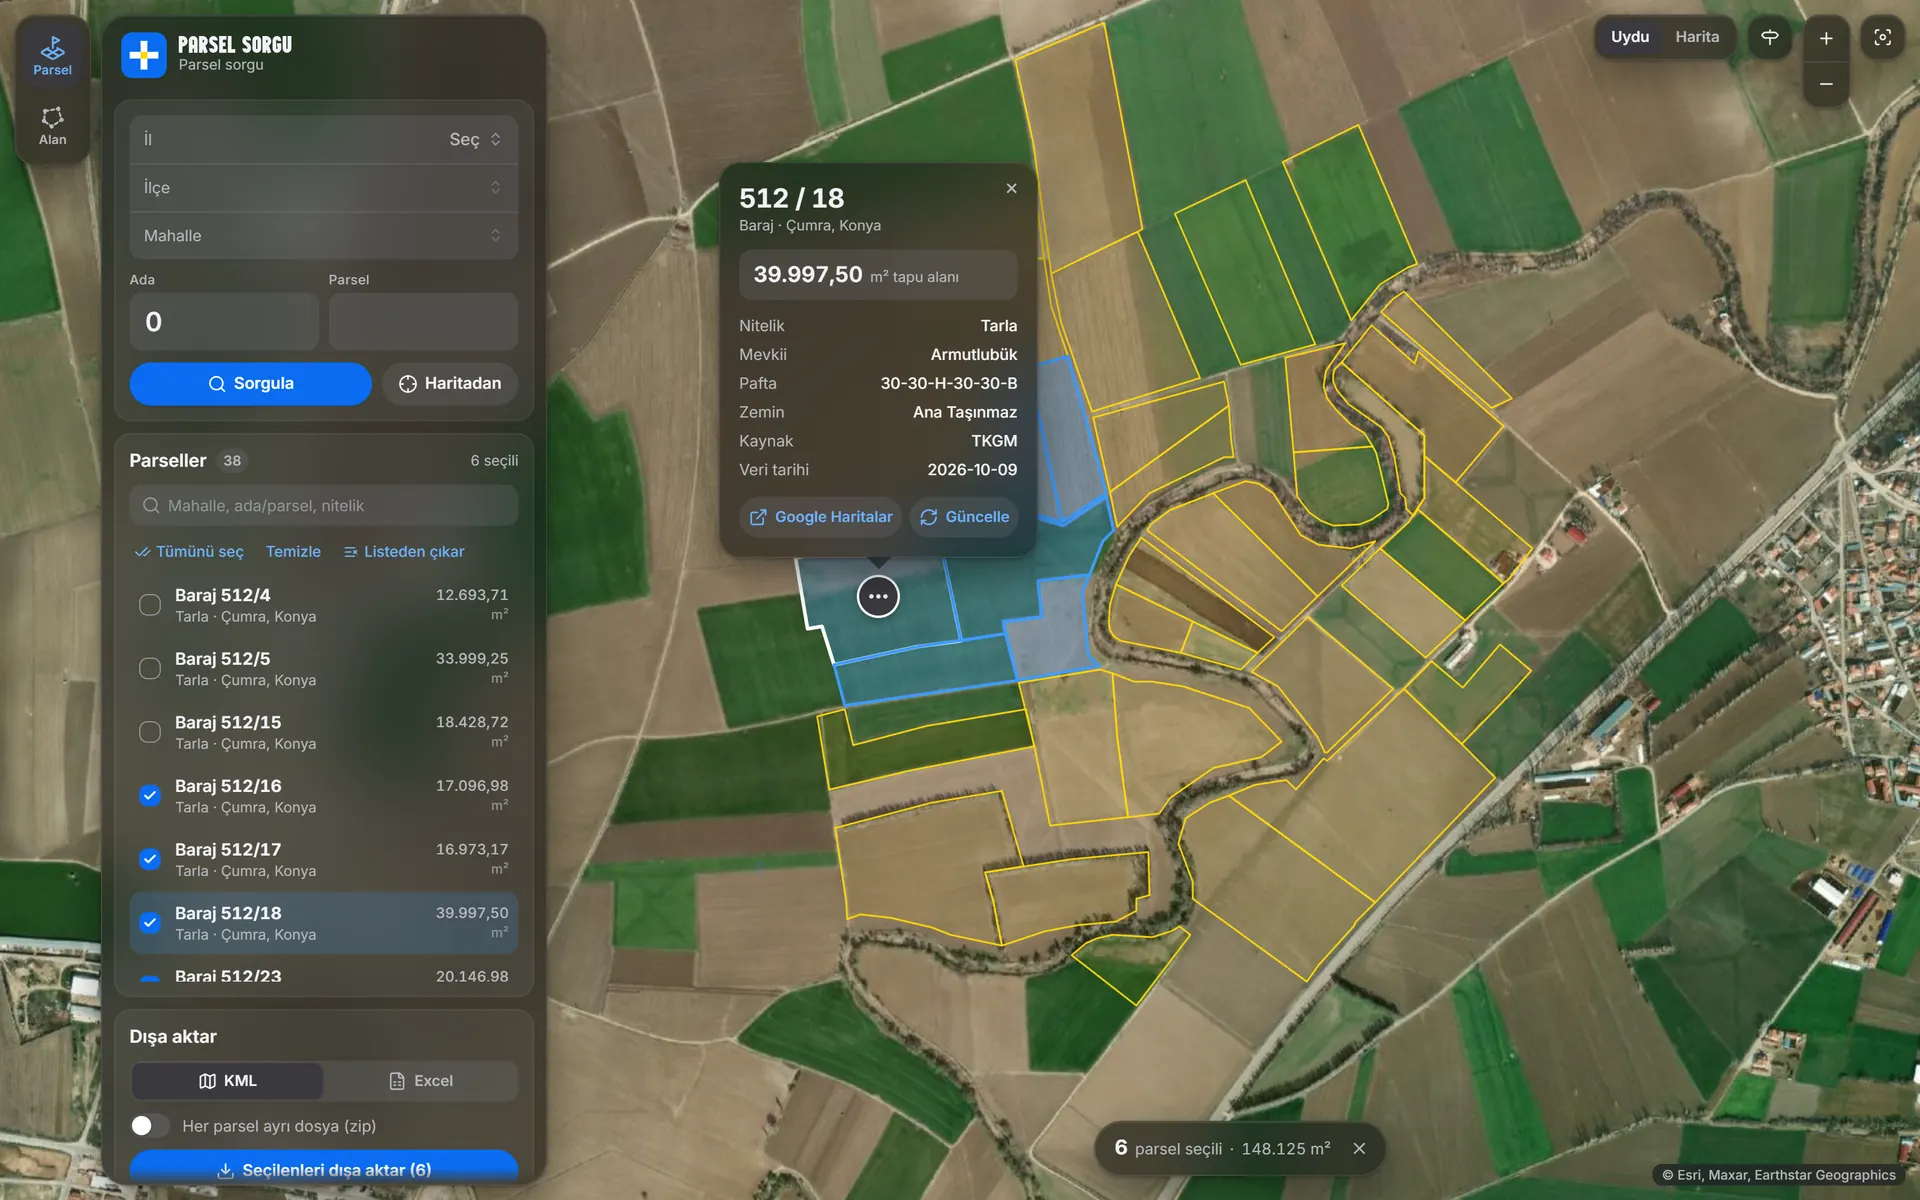
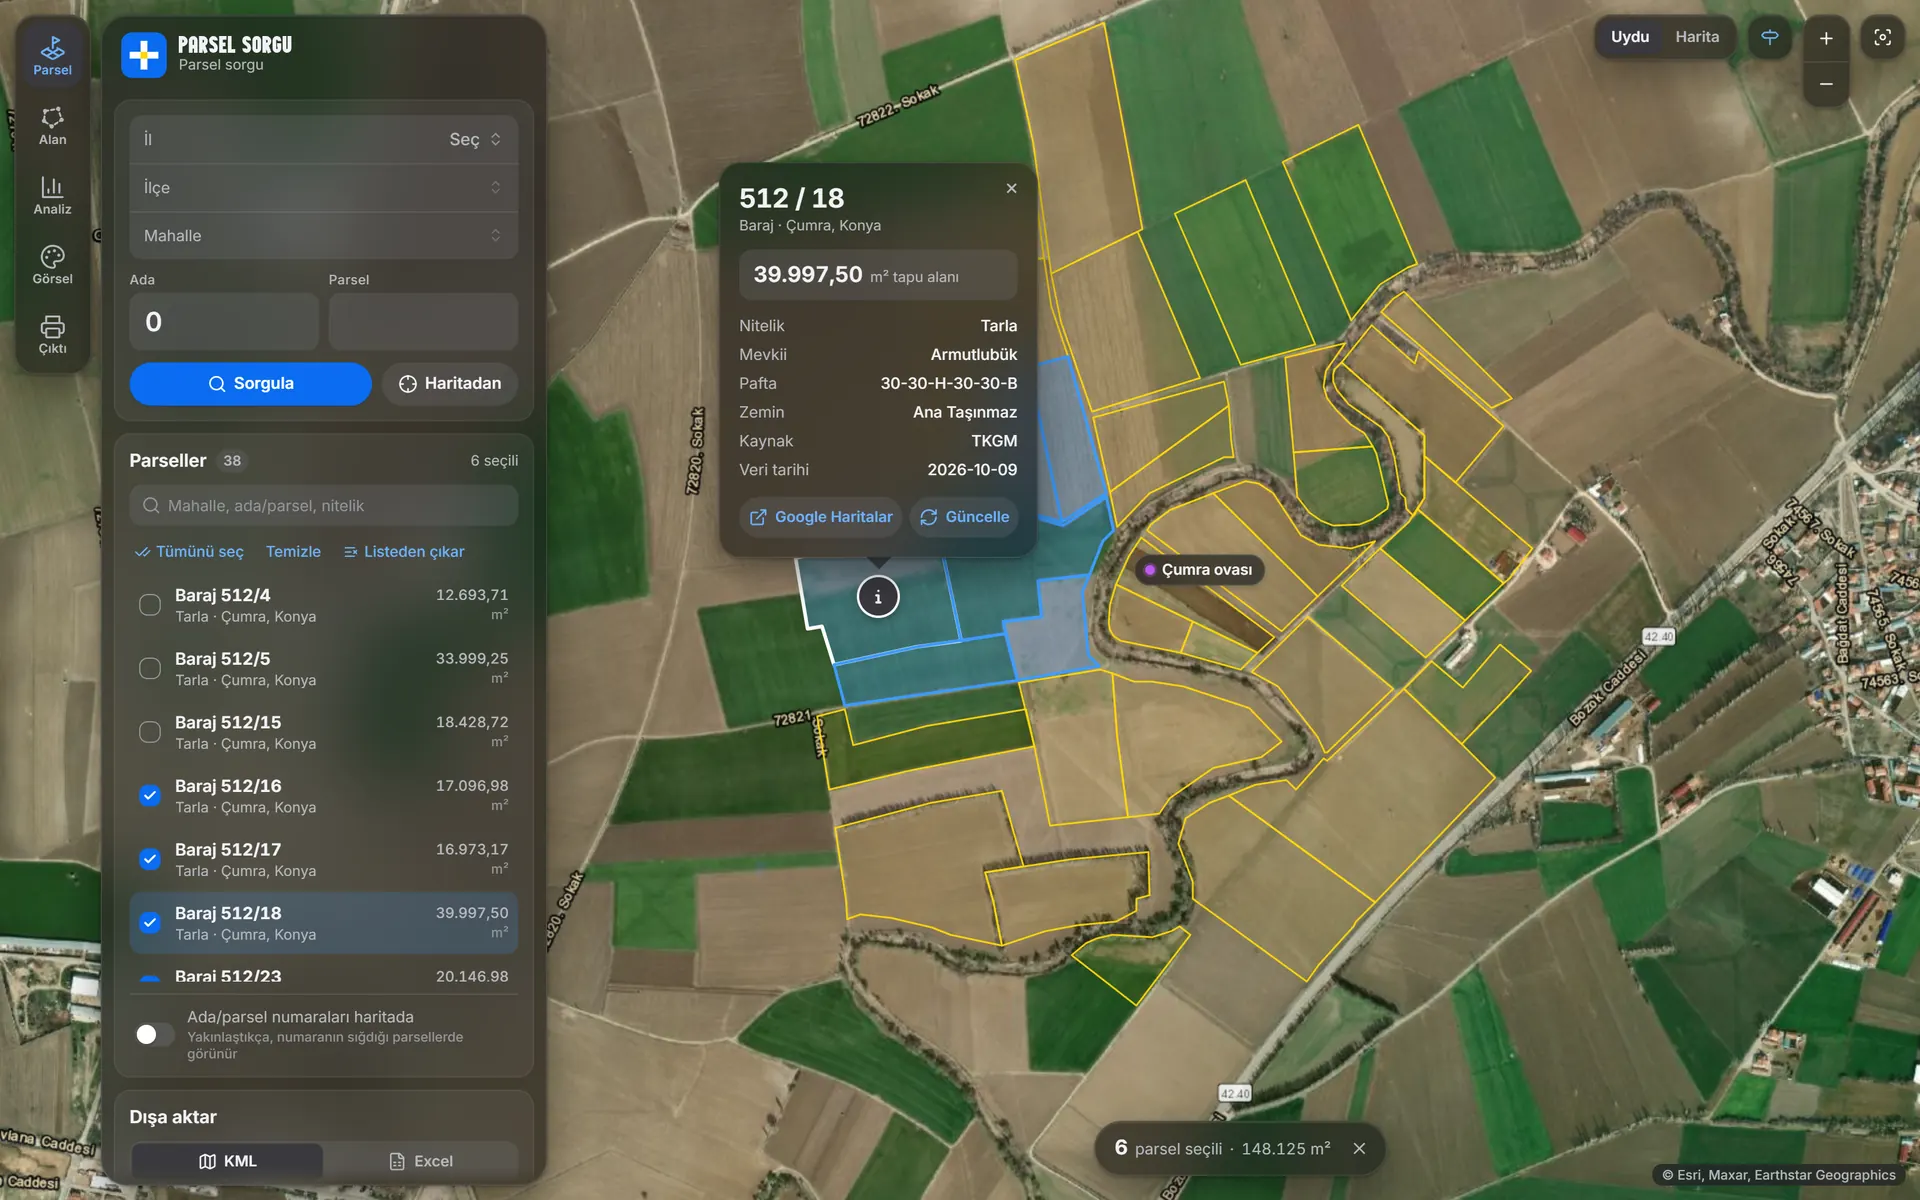
Site: v0.2.0 notu, yeni sürümden ekranlar, Görsel/Analiz/Çıktı bölümü
Sürüm notu yayına hazır (taslak kaldırıldı). Ekran görüntüleri yeni
sürümden (Çumra demo verisi) yeniden alındı; Görsel, Analiz ve Çıktı
ekranları şeride ve yeni bir bölüme eklendi. "Ada. Parsel. Sınır. Tek
ekranda." bölümü ve başlıklardaki 01/02/03 numaraları kaldırıldı.

diff --git a/site/index.html b/site/index.html
@@ -84,21 +84,14 @@
       <p class="rx-hero__kaynak">Uydu görüntüsü: <span lang="en">Esri, Maxar, Earthstar Geographics</span></p>
     </section>
 
-    <!-- STATEMENT: pinned, words brighten one after another -->
-    <section class="rx-statement" data-statement aria-label="Özet">
-      <p class="rx-statement__text">
-        <span>Ada.</span> <span>Parsel.</span> <span>Sınır.</span> <span class="rx-vurgu">Tek ekranda.</span>
-      </p>
-    </section>
-
-    <!-- SCENE 01: query -->
+    <!-- SCENE: query -->
     <section class="rx-scene" id="ozellikler" aria-labelledby="s1">
       <div class="rx-scene__media">
         <div class="rx-scene__cerceve"><img data-speed="6" src="assets/uygulama-parsel-1920.webp" srcset="assets/uygulama-parsel-1200.webp 1200w, assets/uygulama-parsel-1920.webp 1920w, assets/uygulama-parsel-3200.webp 3200w" sizes="(min-width: 768px) 60vw, 100vw" alt="Parsel Sorgu + ekranı: Çumra'da parseller haritada sarı sınırlarla, solda parsel listesi, üstte 512/18 parselinin bilgi kartı" loading="lazy" width="3200" height="2000"></div>
         <img class="rx-scene__kesit" data-speed="-10" src="assets/kesit-sorgu-748.webp" srcset="assets/kesit-sorgu-520.webp 520w, assets/kesit-sorgu-748.webp 748w" sizes="(min-width: 768px) 22vw, 50vw" alt="İl Konya, ilçe Çumra seçili; mahalle listesinde “gü” yazınca Güvercinlik Köyü bulunuyor" loading="lazy" width="748" height="708">
       </div>
       <div class="rx-scene__copy">
-        <p class="rx-eyebrow" data-reveal>01 · Sorgula</p>
+        <p class="rx-eyebrow" data-reveal>Sorgula</p>
         <h2 class="rx-h2" data-reveal>Yaz, seç, bul.</h2>
         <p data-reveal>İl, ilçe ve mahalleyi yazarak seç, ada ve parseli gir. Ya da haritada parsele tıkla. Tapu alanı, nitelik, mevkii ve pafta tek kartta.</p>
         <p data-reveal>Sorgulanan her parsel bilgisayarında saklanır: aynı parsel için <strong>TKGM'ye ikinci kez gidilmez</strong>, günlük limitin boşa gitmez.</p>
@@ -108,14 +101,14 @@
       </div>
     </section>
 
-    <!-- SCENE 02: area detection — pinned, counters fill with scroll -->
+    <!-- SCENE: area detection — pinned, counters fill with scroll -->
     <section class="rx-alan" aria-labelledby="s2" data-alan>
       <div class="rx-alan__ekran">
         <img src="assets/uygulama-alan-1920.webp" srcset="assets/uygulama-alan-1200.webp 1200w, assets/uygulama-alan-1920.webp 1920w, assets/uygulama-alan-3200.webp 3200w" sizes="100vw" alt="Alandan parsel tespiti: çizilen Çumra ovası alanı, içindeki ve kesişen parseller mavi, sorgulanmamış boşluklar kırmızı taralı" loading="lazy" width="3200" height="2000">
       </div>
       <div class="rx-alan__perde" aria-hidden="true"></div>
       <div class="rx-alan__icerik">
-        <p class="rx-eyebrow">02 · Alandan tespit</p>
+        <p class="rx-eyebrow">Alandan tespit</p>
         <h2 class="rx-h2" id="s2">Alanı çiz.<br>Parselleri<br><span class="rx-vurgu">o bulsun.</span></h2>
         <p class="rx-alan__metin">OSB ya da plan sınırını yükle (<span lang="en">KML, KMZ</span>, <span lang="en">Netcad</span> projesi) veya haritada pinlerle çiz. İçindekileri ve kesişenleri tek tıkla seç, boşlukları gör; sorgu bütçesiyle TKGM'den otomatik tara.</p>
         <dl class="rx-sayaclar">
@@ -127,14 +120,14 @@
       </div>
     </section>
 
-    <!-- SCENE 03: export -->
+    <!-- SCENE: export -->
     <section class="rx-scene rx-scene--flip" aria-labelledby="s3">
       <div class="rx-scene__media">
         <div class="rx-scene__cerceve"><img data-speed="6" src="assets/uygulama-disa-1920.webp" srcset="assets/uygulama-disa-1200.webp 1200w, assets/uygulama-disa-1920.webp 1920w, assets/uygulama-disa-3200.webp 3200w" sizes="(min-width: 768px) 60vw, 100vw" alt="Dışa aktarma: alanla kesişen 38 parsel, Excel biçimi, ED50 3° koordinat sistemi seçili" loading="lazy" width="3200" height="2000"></div>
         <img class="rx-scene__kesit" data-speed="-10" src="assets/kesit-disa-748.webp" srcset="assets/kesit-disa-520.webp 520w, assets/kesit-disa-748.webp 748w" sizes="(min-width: 768px) 22vw, 50vw" alt="Dışa aktar paneli: kesişenler, alan sınırını ekle, Excel, ED50 3°, dilim otomatik" loading="lazy" width="748" height="772">
       </div>
       <div class="rx-scene__copy">
-        <p class="rx-eyebrow" data-reveal>03 · Dışa aktar</p>
+        <p class="rx-eyebrow" data-reveal>Dışa aktar</p>
         <h2 class="rx-h2" data-reveal>Google Earth'e de, tabloya da.</h2>
         <p data-reveal><span lang="en">KML</span> ile Google Earth'e, <span lang="en">Excel</span> ile tabloya. Köşe koordinatları <strong>ITRF96 3°</strong> ya da <strong>ED50 3°</strong>; dilim otomatik ya da elle.</p>
         <p data-reveal>Alan sınırı <span lang="en">KML</span>'e, alan içi metrekareler <span lang="en">Excel</span>'e eklenir. İstersen her parsel ayrı dosya.</p>
@@ -144,10 +137,28 @@
       </div>
     </section>
 
+    <!-- SCENE: visual, analysis, print -->
+    <section class="rx-scene" aria-labelledby="s4">
+      <div class="rx-scene__media">
+        <div class="rx-scene__cerceve"><img data-speed="6" src="assets/uygulama-cikti-1920.webp" srcset="assets/uygulama-cikti-1200.webp 1200w, assets/uygulama-cikti-1920.webp 1920w, assets/uygulama-cikti-3200.webp 3200w" sizes="(min-width: 768px) 60vw, 100vw" alt="Çıktı: A4 yatay sayfa haritanın üstünde canlı; başlık, lejant, kuzey oku, ölçek ve bütün ada/parsel numaraları" loading="lazy" width="3200" height="2000"></div>
+      </div>
+      <div class="rx-scene__copy">
+        <p class="rx-eyebrow" data-reveal>Görsel, analiz, çıktı</p>
+        <h2 class="rx-h2" id="s4" data-reveal>Haritayı sunuma hazırla.</h2>
+        <p data-reveal>Alanları renklendir ve tara; yazı, ok, ölçü, görsel ya da <span lang="en">PDF</span> ekle, katmanları grupla. <span lang="en">Excel</span> tablolarını <span lang="en">Excel</span>'deki görünüşüyle haritaya koy.</p>
+        <p data-reveal>Parsel türlerini tabloda ya da dilim grafiğinde gör. A4/A3 sayfayı haritanın üstünde canlı ayarla, bütün ada/parsel numaralarıyla <strong><span lang="en">PDF</span></strong> ya da <strong><span lang="en">PNG</span></strong> al; çalışmayı tek dosyada proje olarak sakla.</p>
+        <ul class="rx-cipler" data-reveal>
+          <li>Katmanlar</li><li>Ölçü</li><li>Lejant</li><li>Analiz</li><li>A4 / A3</li><li lang="en">PDF</li><li>Proje</li>
+        </ul>
+      </div>
+    </section>
+
     <!-- MEDIA RAIL -->
     <section class="rx-rail" aria-labelledby="ray-baslik" data-rail>
       <h2 class="rx-h2 rx-rail__title" id="ray-baslik">Ekranlar</h2>
       <div class="rx-rail__track" data-rail-track>
+        <figure class="rx-card"><img src="assets/uygulama-gorsel-1200.webp" srcset="assets/uygulama-gorsel-1200.webp 1200w, assets/uygulama-gorsel-1920.webp 1920w" sizes="(min-width: 768px) 46vw, 82vw" alt="Görsel sekmesi: katman listesi, alan ölçüsü, yazı, ok ve lejant" loading="lazy" width="1200" height="750"><figcaption>Görsel: katmanlar, ölçü, yazı, ok, lejant</figcaption></figure>
+        <figure class="rx-card"><img src="assets/uygulama-analiz-1200.webp" srcset="assets/uygulama-analiz-1200.webp 1200w, assets/uygulama-analiz-1920.webp 1920w" sizes="(min-width: 768px) 46vw, 82vw" alt="Analiz sekmesi: parsel türleri ve sütunları seçilebilen ada/parsel tablosu" loading="lazy" width="1200" height="750"><figcaption>Analiz: parsel türleri ve ada/parsel tablosu</figcaption></figure>
         <figure class="rx-card"><img src="assets/uygulama-alan-1200.webp" srcset="assets/uygulama-alan-1200.webp 1200w, assets/uygulama-alan-1920.webp 1920w" sizes="(min-width: 768px) 46vw, 82vw" alt="Alan özeti ve boşluklar" loading="lazy" width="1200" height="750"><figcaption>Alan özeti: içindekiler, kesişenler, boşluklar</figcaption></figure>
         <figure class="rx-card"><img src="assets/uygulama-sorgu-1200.webp" srcset="assets/uygulama-sorgu-1200.webp 1200w, assets/uygulama-sorgu-1920.webp 1920w" sizes="(min-width: 768px) 46vw, 82vw" alt="Aranabilir il, ilçe, mahalle listesi" loading="lazy" width="1200" height="750"><figcaption>Yazarak aranan il / ilçe / mahalle listesi</figcaption></figure>
         <figure class="rx-card"><img src="assets/uygulama-acik-1200.webp" srcset="assets/uygulama-acik-1200.webp 1200w, assets/uygulama-acik-1920.webp 1920w" sizes="(min-width: 768px) 46vw, 82vw" alt="Uygulamanın açık teması" loading="lazy" width="1200" height="750"><figcaption>Açık tema: Windows temasına uyar</figcaption></figure>

diff --git a/site/style.css b/site/style.css
@@ -145,15 +145,6 @@ html.lenis, html.lenis body { height: auto; }
   .rx-hero__yer { display: none; }
 }
 
-/* ---------- statement ---------- */
-.rx-statement { min-height: 100svh; display: grid; place-items: center; padding: 0 var(--rx-gutter); background: var(--rx-bg-layer-0); }
-.rx-statement__text {
-  margin: 0; text-align: center; max-width: 12ch;
-  font: var(--rx-font-weight-regular) min(calc(var(--rx-fs-20) * 1.4), calc(var(--rx-vh-unit) * 5.2)) / var(--rx-lh-100) var(--rx-font-display);
-  letter-spacing: var(--rx-ls-neg-150); text-transform: uppercase; color: var(--rx-text-header);
-}
-.rx-statement__text span { display: inline-block; }
-
 /* ---------- feature scenes ---------- */
 .rx-scene {
   display: grid; grid-template-columns: 1fr; gap: var(--rx-gap-500); align-items: center;

diff --git a/site/main.js b/site/main.js
@@ -45,13 +45,6 @@
     onEnter: () => nav.classList.add("is-solid"), onLeaveBack: () => nav.classList.remove("is-solid"),
   });
 
-  // ---- STATEMENT: words brighten one after another -------------------------------
-  const words = gsap.utils.toArray("[data-statement] span");
-  pinScene(document.querySelector("[data-statement]"), (tl) => {
-    tl.from(words, { autoAlpha: 0.12, scale: 0.86, yPercent: 20, stagger: 0.5, duration: 1 });
-    tl.to({}, { duration: 0.6 });
-  }, { length: "+=170%", mobileLength: "+=220%" });
-
   // ---- AREA SCENE: screen tilts flat while the counters fill ---------------------
   const counters = gsap.utils.toArray("[data-sayac]");
   const format = (el, v) => el.dataset.bicim === "yuzde"
